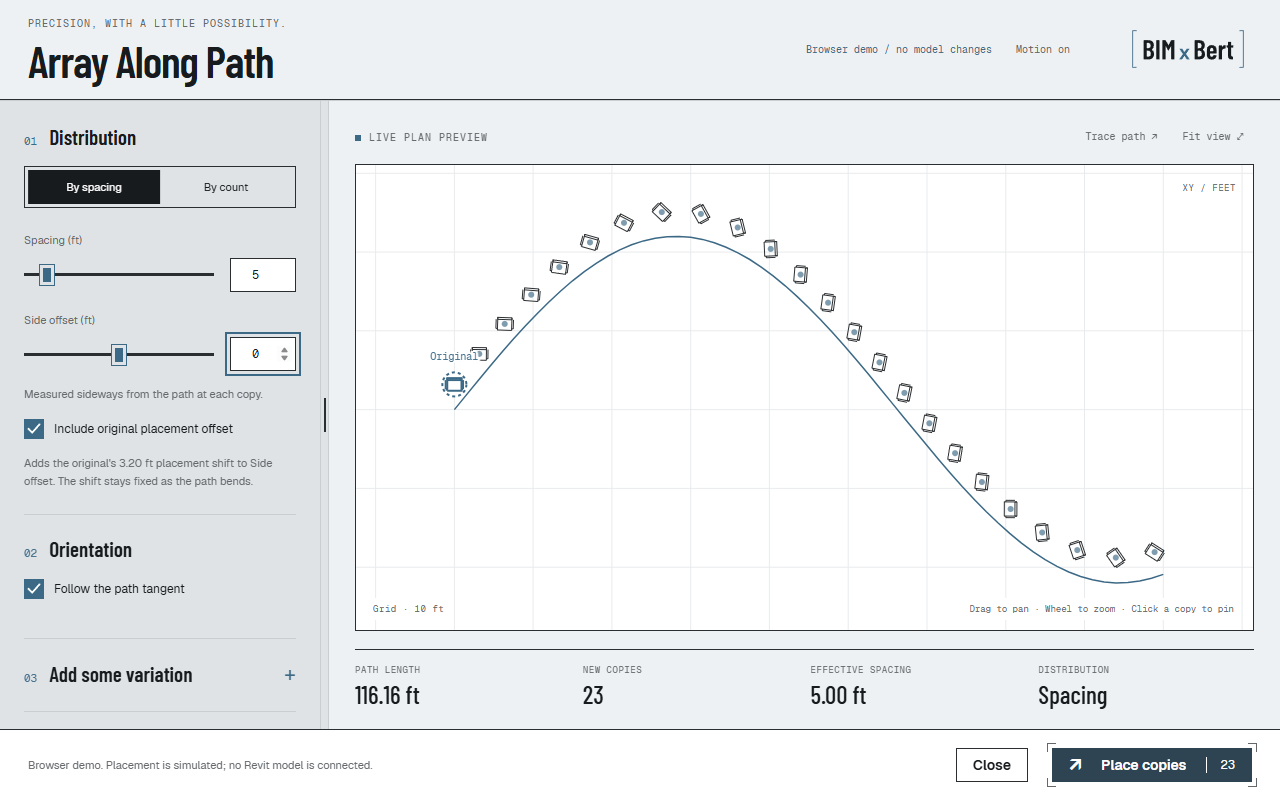
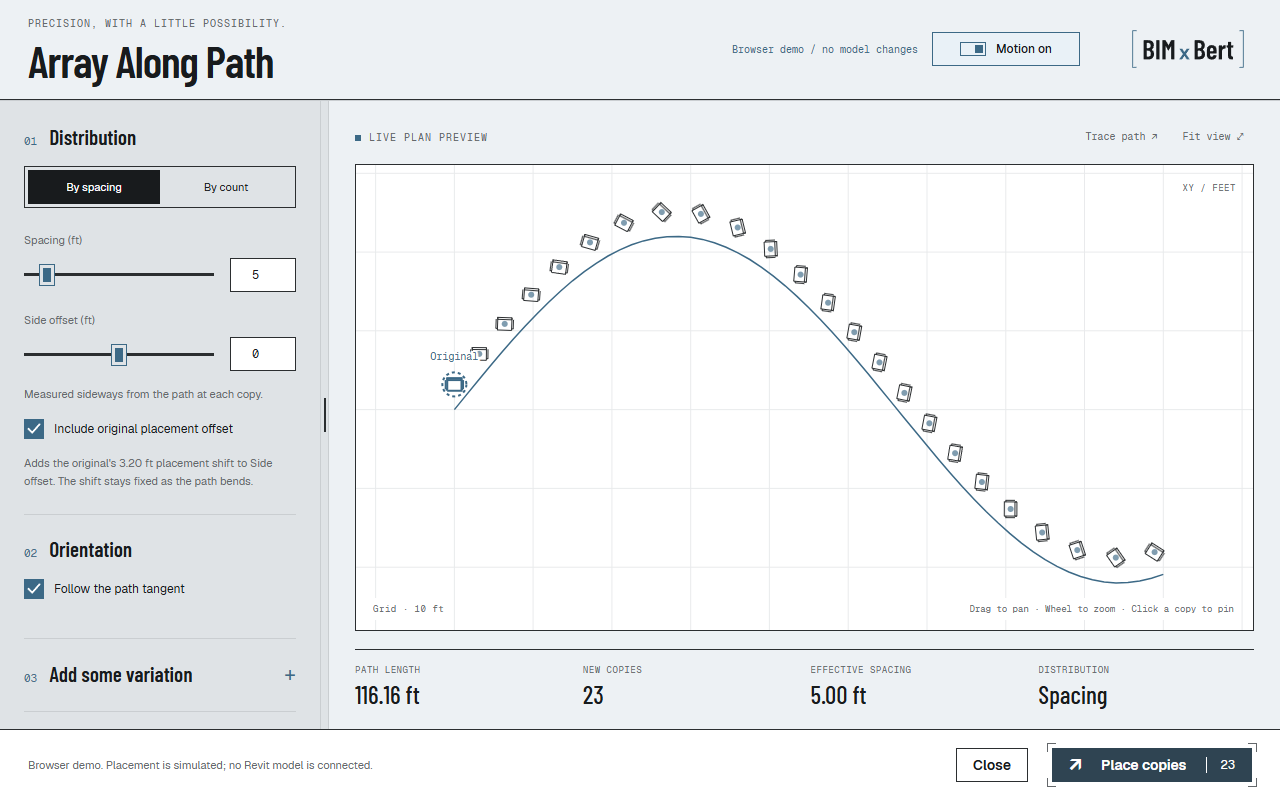
Make motion toggle discoverable and verify brand fonts

diff --git a/docs/verification/array-along-path/README.md b/docs/verification/array-along-path/README.md
@@ -49,6 +49,25 @@ still needs live verification.
   shift from the path-relative side offset. The title has no trailing period.
   Ten focused tests and Edge checks passed for helper updates, keyboard Space,
   unchanged original/side offset and responsive layout. Images below are refreshed.
+- Motion-button revision: visible outline, themed active fill, sliding indicator,
+  persistent on/off text and a 148 x 34 px target. Edge checks cover pointer,
+  keyboard Space, retained indicator, system reduced motion and explicit opt-in;
+  button fits at 390px without horizontal overflow. Ten focused tests passed.
+- Font audit: actual rendered fonts match the BIMxBert profile in the sampled
+  title, section heading, help text, checkbox, motion/action buttons, mode control,
+  metadata and large metric. All sampled faces come from packaged web fonts.
+  [Rendered-font evidence](font-audit.json) distinguishes actual faces from CSS
+  fallback declarations. This checks the browser workspace, not native Revit UI.
+
+| Role | BIMxBert font |
+| --- | --- |
+| Title and section headings | Barlow Condensed SemiBold (600) |
+| Large preview metrics | Barlow Condensed Medium (500) |
+| Body/help and control text | Geist Regular (400) |
+| Motion button / primary action | Geist Medium (500) / SemiBold (600) |
+| Metadata and technical text | Geist Mono Regular (400) |
+
+![Motion toggle](motion-toggle.png)
 
 ![Count with starting offset copy](count-offset.png)
 

diff --git a/docs/handoffs/array-along-path-motion-2026-10-02.md b/docs/handoffs/array-along-path-motion-2026-10-02.md
@@ -124,3 +124,9 @@ Draft PR: [#10](https://github.com/robmintzes/formwork/pull/10).
   matching result wording. Removed the period after the tool title. Ten focused
   tests pass; Edge checks cover on/off helper text, Space operation, fixed source,
   preserved side offset and responsive layout without horizontal overflow.
+- 2026-10-02: Gave Motion a visible themed button outline, active fill and sliding
+  state indicator, retaining text/pressed-state keyboard semantics and system
+  reduced-motion opt-in. Checked pointer/Space, on/off and 390px layout. Audited
+  actual rendered fonts: packaged Barlow Condensed, Geist and Geist Mono match the
+  current BIMxBert profile in sampled roles; recorded evidence in font-audit.json.
+  Ten focused tests pass. Sandbox and browser preview refreshed.
